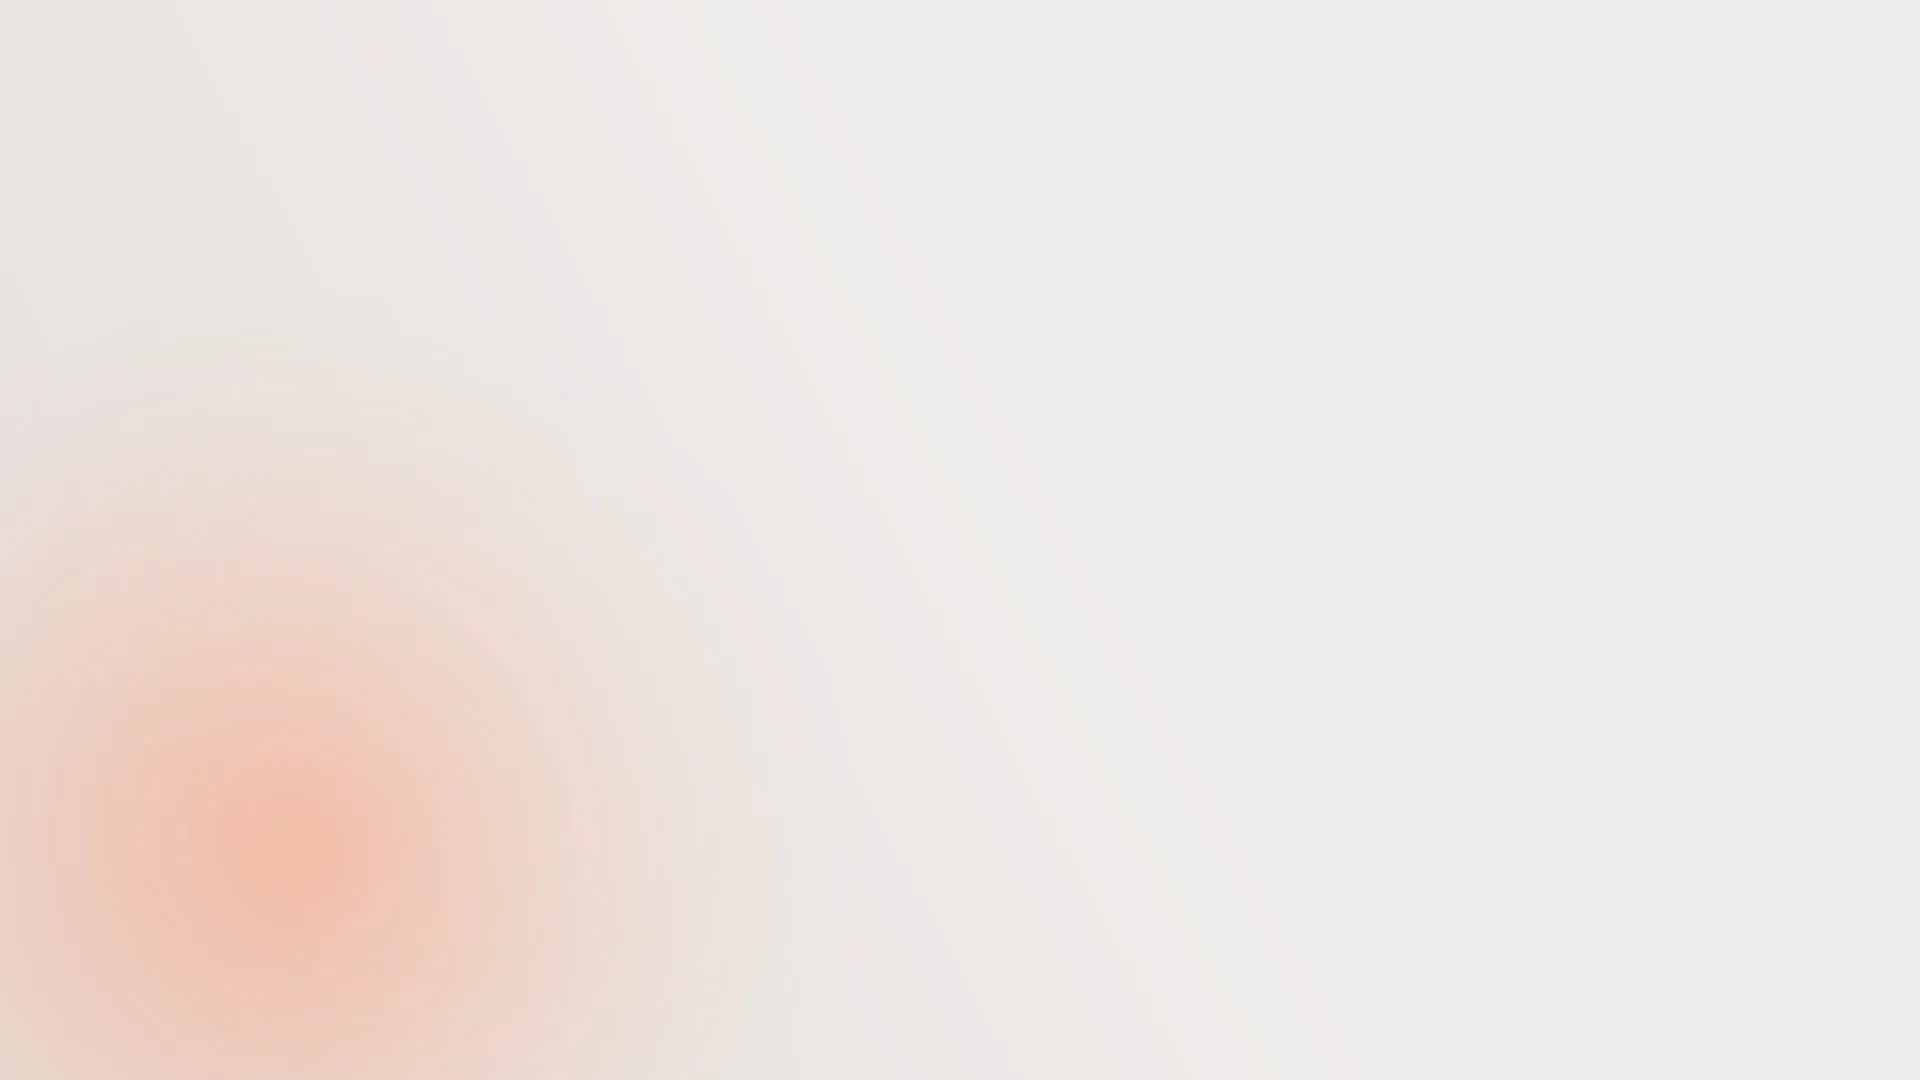
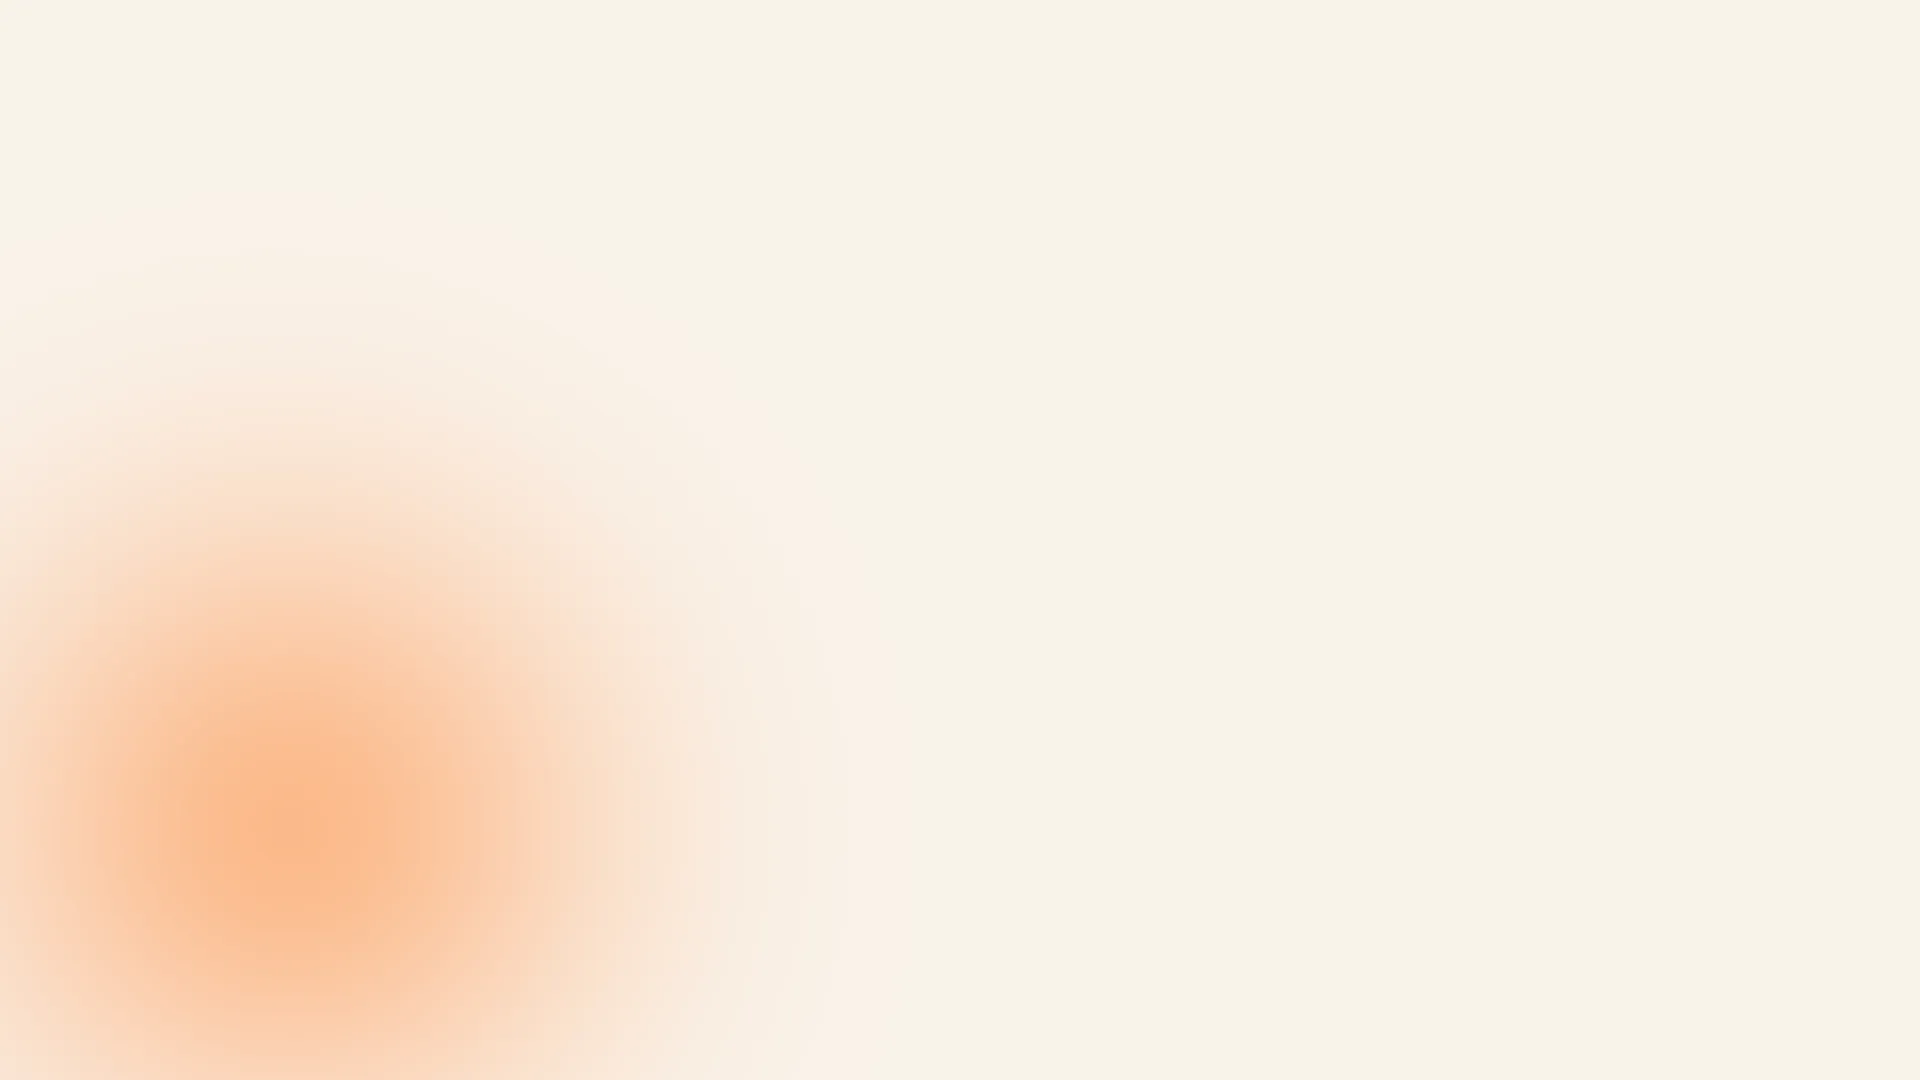
updated to reflect new branding

Changed region(s): [[0.0625, 0.55, 0.2812, 0.8861]]

diff --git a/app/globals.css b/app/globals.css
@@ -1,7 +1,7 @@
 :root {
-  --background: #f1edeb;
+  --background: #f9f3ea;
   --foreground: #171717;
-  --main-color: #ff8457;
+  --main-color: #ff6700;
   --main-color-light: #ffa786;
   --main-color-white: #f8f2eb;
   --color-neutral: #e7e0dc;
@@ -15,7 +15,7 @@
 
 @media (prefers-color-scheme: dark) {
   :root {
-    --background: #f1edeb;
+    --background: #f9f3ea;
     --foreground: #171717;
   }
 }
@@ -275,7 +275,8 @@ small {
 /*Homepage*/
 
 .hero-section {
-  box-shadow: rgba(50, 50, 93, 0.25) 0px 30px 80px -20px,
+  box-shadow:
+    rgba(50, 50, 93, 0.25) 0px 30px 80px -20px,
     rgba(0, 0, 0, 0.3) 0px 30px 60px -30px;
   border-radius: var(--border-radius--lg);
   width: 95vw;
@@ -283,7 +284,7 @@ small {
   position: relative;
   z-index: 0;
   padding: 15vh 9rem;
-  background-image: url("/images/cta-bg2.webp");
+  background-image: url("/images/NewcoverGrad.webp");
   background-position: center; /* Center the image */
   background-repeat: no-repeat; /* Do not repeat the image */
   background-size: cover;
@@ -439,20 +440,20 @@ small {
 .button-big {
   display: inline-block;
   color: var(--main-color-white);
-  background: rgb(255, 133, 87);
+  background: rgb(255, 103, 0);
   background: -moz-linear-gradient(
     342deg,
-    rgba(255, 133, 87, 1) 0%,
+    rgba(255, 103, 0, 1) 0%,
     rgba(215, 79, 36, 1) 100%
   );
   background: -webkit-linear-gradient(
     342deg,
-    rgba(255, 133, 87, 1) 0%,
+    rgba(255, 103, 0, 1) 0%,
     rgba(215, 79, 36, 1) 100%
   );
   background: linear-gradient(
     342deg,
-    rgba(255, 133, 87, 1) 0%,
+    rgba(255, 103, 0, 1) 0%,
     rgba(215, 79, 36, 1) 100%
   );
   filter: progid:DXImageTransform.Microsoft.gradient(startColorstr="#ff8557",endColorstr="#d74f24",GradientType=1);
@@ -972,7 +973,8 @@ footer {
   object-fit: cover;
   height: 300px;
   margin-left: 40px;
-  box-shadow: rgba(0, 0, 0, 0.1) 0px 10px 15px -3px,
+  box-shadow:
+    rgba(0, 0, 0, 0.1) 0px 10px 15px -3px,
     rgba(0, 0, 0, 0.05) 0px 4px 6px -2px;
 }
 
@@ -1164,7 +1166,7 @@ footer {
   padding: 6rem;
   overflow: hidden;
   border-radius: 24px;
-  background: url("/images/bg-gradient-top.jpg");
+  background: url("/images/bg-grain-gradient-top.jpg");
   background-repeat: no-repeat;
   background-position: bottom;
   background-size: cover;
@@ -1409,13 +1411,14 @@ footer {
 .churches-section {
   width: 98vw;
   height: 50vh;
-  color: #333333;
+  color: white;
   margin: 1vw;
   border-radius: 12px;
   position: relative;
   overflow: hidden;
-  background-image: url("/images/bg1.webp");
+  background-image: url("/images/NewGradient.webp");
   background-size: cover;
+  background-position: bottom;
   display: flex;
   flex-direction: column;
   justify-content: center;

diff --git a/app/page.js b/app/page.js
@@ -169,7 +169,7 @@ export default async function Home() {
       </div>
 
       <div className="cta-section">
-        <img src="images/cta-bg3.jpg" className="cta-image-bg"></img>
+        <img src="images/NewcoverGrad.webp" className="cta-image-bg"></img>
         <div className="cta-content">
           <div className="cta-left">
             <h2>Join WayForward</h2>

diff --git a/app/churches/page.js b/app/churches/page.js
@@ -159,7 +159,7 @@ export default function Home() {
           <div class="testimonial-container">
             <img src="/images/testimonial2.png" alt="" />
 
-            <div class="testimonial-content">
+            <div className="testimonial-content">
               <h5>
                 <strong>New Life, Spartanburg, SC</strong>
               </h5>

diff --git a/app/components/navigation.js b/app/components/navigation.js
@@ -10,7 +10,7 @@ export default function NavBar() {
           <div className="menu-img-container">
             <a href="/">
               <img
-                src="/images/WF-Logo.png"
+                src="/images/Hor-Col-Black.png"
                 alt=""
                 className="menu-logo filter-bright"
               ></img>
